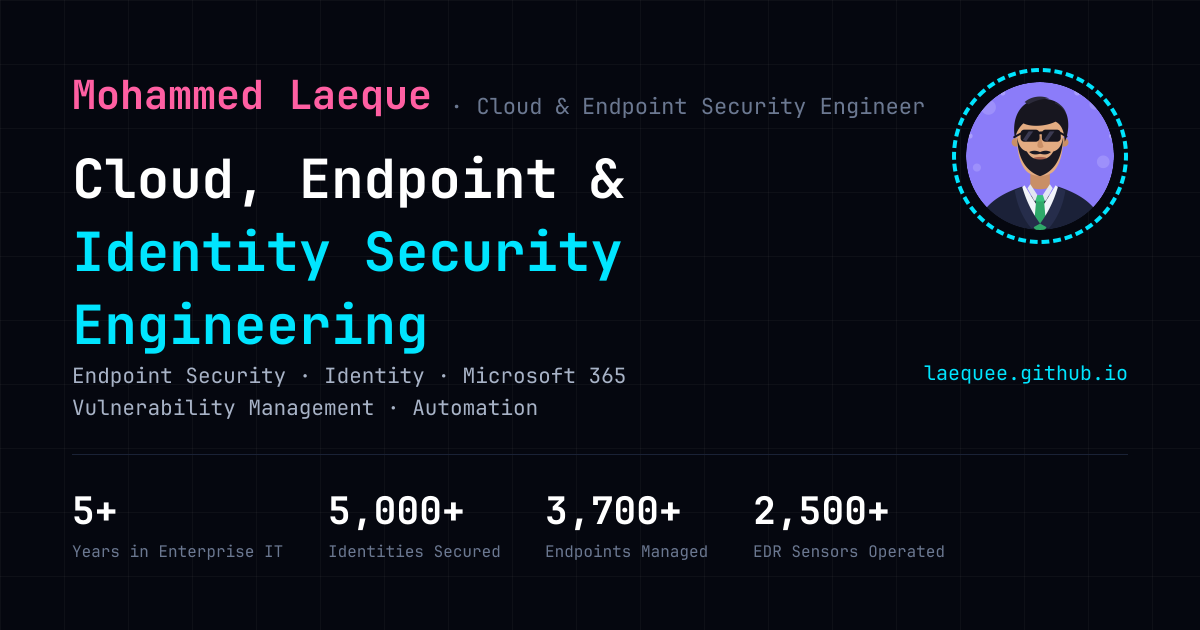
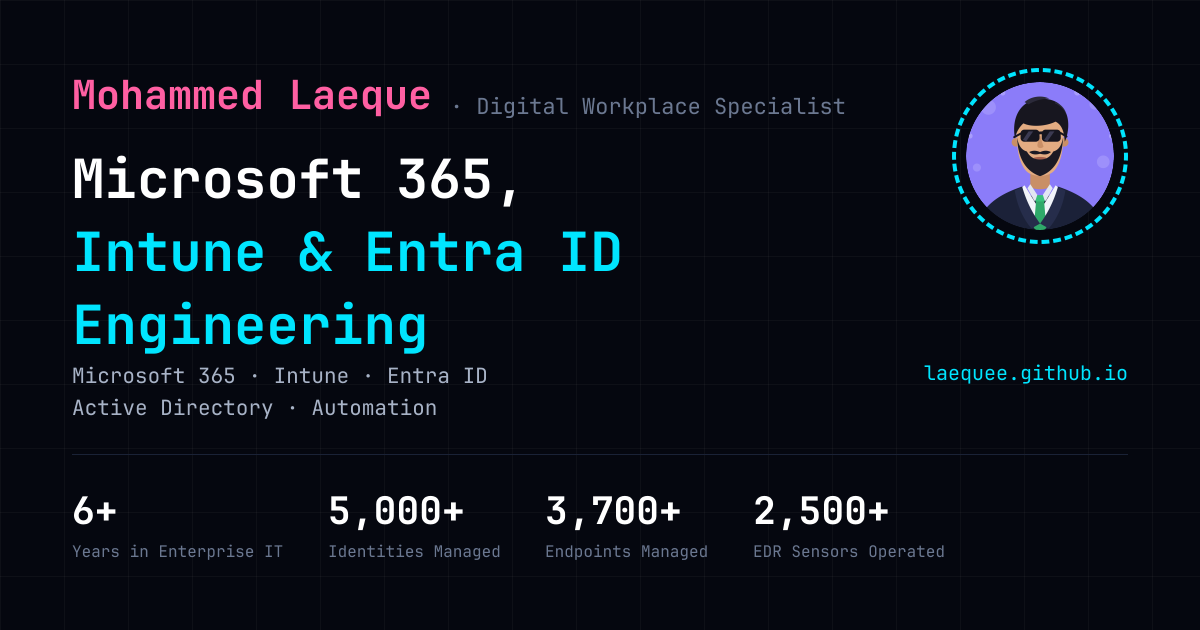
Present the portfolio as Microsoft 365 and digital workplace work

diff --git a/src/content/profile.ts b/src/content/profile.ts
@@ -63,30 +63,30 @@ export const profile = {
   name: "Mohammed Laeque",
   initials: "ML",
   /* Verbatim from the CV's title line, so the two documents introduce the same person. */
-  title: "Cloud & Endpoint Security Engineer",
-  headline: "Cloud, Endpoint & Identity Security Engineering",
+  title: "Digital Workplace Specialist",
+  headline: "Microsoft 365, Intune & Entra ID Engineering",
   /* Single line, for the share card and metadata where wrapping isn't available. */
   discipline:
-    "Endpoint Security · Identity · Microsoft 365 · Vulnerability Management · Automation",
+    "Microsoft 365 · Intune · Entra ID · Active Directory · Automation",
   /* Hand-broken for the hero, where two balanced lines read better than one long one. */
   disciplineLines: [
-    "Endpoint Security · Identity · Microsoft 365",
-    "Vulnerability Management · Automation",
+    "Microsoft 365 · Intune · Entra ID",
+    "Active Directory · Automation",
   ],
   location: "Abu Dhabi, UAE",
 
   intro:
-    "I secure and consolidate the identity, endpoint, and collaboration layers that large organisations run on — endpoint detection and response, Conditional Access and hybrid identity, CIS hardening, and the tenant-scale migrations that get an estate onto one governed platform.",
+    "I run and consolidate the identity, endpoint, and collaboration layers that large organisations depend on — Microsoft 365, Intune, Conditional Access and hybrid identity, and the tenant-scale migrations that get an estate onto one governed platform.",
 
-  summary: `${yearsExperience}+ years delivering enterprise-scale Microsoft 365, endpoint, and hybrid identity work. Accountable for endpoint detection and response, identity and access management, email and data security, vulnerability management, and security hardening across a multi-domain, multi-forest environment of 5,000+ identities and 3,700+ managed devices. The work is Zero Trust and least privilege in practice, measured against CIS, NIST, and ISO 27001 control expectations, and delivered in production hours rather than in maintenance windows.`,
+  summary: `${yearsExperience}+ years delivering enterprise-scale Microsoft 365, Intune endpoint management, and hybrid identity work. Accountable for Microsoft 365 administration, endpoint management, identity and access, and the supporting security tooling across a multi-domain, multi-forest environment of 5,000+ identities and 3,700+ managed devices, delivered in production hours rather than in maintenance windows.`,
 
   /*
    * No badge any more — this only drives the "Looking for" block and the lede
    * in the contact section. Set `open: false` and both disappear.
    */
   availability: {
-    open: false,
-    detail: "",
+    open: true,
+    detail: "Open to roles across the UAE",
   },
 
   contact: {
@@ -140,8 +140,8 @@ export const profile = {
  * comment above HeadlineLine.
  */
 export const headlineLines = [
-  { text: "Cloud, Endpoint &", accent: false },
-  { text: "Identity Security", accent: true },
+  { text: "Microsoft 365,", accent: false },
+  { text: "Intune & Entra ID", accent: true },
   { text: "Engineering", accent: true },
 ] as const;
 
@@ -150,12 +150,12 @@ export const headlineLines = [
  * can run on the numeral alone.
  *
  * Four figures, all from the CV banner. The CV carries two more — 4,000+
- * mailboxes secured and 90%+ CIS compliance — which sit on the case studies
+ * mailboxes managed and 90%+ CIS compliance — which sit on the case studies
  * that earned them rather than competing for space here.
  */
 export const headlineStats = [
   { value: yearsExperience, suffix: "+", label: "Years in Enterprise IT", note: "Since Oct 2020" },
-  { value: 5000, suffix: "+", label: "Identities Secured", note: "Entra ID · multi-forest AD" },
+  { value: 5000, suffix: "+", label: "Identities Managed", note: "Entra ID · multi-forest AD" },
   { value: 3700, suffix: "+", label: "Endpoints Managed", note: "Intune · Autopilot" },
   { value: 2500, suffix: "+", label: "EDR Sensors Operated", note: "CrowdStrike Falcon" },
 ] as const;

diff --git a/src/content/experience.ts b/src/content/experience.ts
@@ -28,7 +28,7 @@ export type Role = {
 
 export const experience: Role[] = [
   {
-    title: "Security, Identity & Endpoint Engineer",
+    title: "System Specialist / Digital Workplace Specialist",
     employer: "HCLTech",
     client: "Multinational food & beverage group",
     period: "Nov 2024 — Present",
@@ -37,9 +37,9 @@ export const experience: Role[] = [
     location: "Abu Dhabi, UAE",
     current: true,
     summary:
-      "Core security, identity and endpoint engineer for the group's Microsoft cloud platform — a single Entra ID tenant over a multi-domain, multi-forest Active Directory estate of 5,000+ identities, 4,000+ mailboxes, 3,700+ managed devices, 2,500+ endpoint security sensors and 2,000+ SharePoint sites.",
+      "Digital workplace, identity and endpoint specialist for the group's Microsoft cloud platform — a single Entra ID tenant over a multi-domain, multi-forest Active Directory estate of 5,000+ identities, 4,000+ mailboxes, 3,700+ managed devices, 2,500+ endpoint security sensors and 2,000+ SharePoint sites.",
     highlights: [
-      "Own endpoint detection and response across a 2,500+ sensor CrowdStrike Falcon estate — prevention policy design, host group scoping, IOA/IOC tuning, Real Time Response and Identity Protection.",
+      "Administer a 2,500+ sensor CrowdStrike Falcon estate — prevention policy design, host group scoping, IOA/IOC tuning, Real Time Response and Identity Protection.",
       "Led an enterprise-wide CrowdStrike tenant-to-tenant migration across a multi-domain environment, removing and reinstalling 2,500+ sensors against a fixed licence expiry with no host left on the retired tenant and no service impact.",
       "Deployed Windows Hello for Business passwordless sign-in to 2,800+ hybrid joined devices — 97% of the managed Windows estate — over cloud Kerberos trust, with no PKI, no certificates and no additional spend.",
       "Architected and manage Microsoft Intune for 3,700+ devices: Autopilot provisioning, MDM auto-enrolment, compliance and configuration profiles, BitLocker, Windows LAPS and Win32 packaging.",

diff --git a/src/content/skills.ts b/src/content/skills.ts
@@ -15,7 +15,7 @@ export type SkillGroup = {
 export const skillGroups: SkillGroup[] = [
   {
     code: "EDR",
-    title: "Endpoint Security",
+    title: "Endpoint Protection",
     items: [
       "CrowdStrike Falcon",
       "Prevention policy & host groups",
@@ -29,14 +29,12 @@ export const skillGroups: SkillGroup[] = [
   },
   {
     code: "SOC",
-    title: "Security Operations",
+    title: "Security Administration",
     items: [
-      "Threat detection & response",
       "Alert triage & containment",
       "Threat hunting",
       "Phishing & BEC investigation",
       "Password spray analysis",
-      "Malware containment & host isolation",
       "Post-incident RCA",
       "Log & audit analysis",
     ],
@@ -74,9 +72,6 @@ export const skillGroups: SkillGroup[] = [
     title: "Frameworks & Governance",
     items: [
       "CIS Benchmarks & Controls",
-      "NIST Cybersecurity Framework",
-      "ISO 27001 control alignment",
-      "MITRE ATT&CK",
       "Zero Trust architecture",
       "Least privilege & defence in depth",
       "Risk & remediation registers",

diff --git a/src/content/projects.ts b/src/content/projects.ts
@@ -638,7 +638,7 @@ export const projects: Project[] = [
     client: "Enterprise client",
     employer: "HCLTech",
     period: "2025",
-    role: "Security engineer — email and identity",
+    role: "Email and identity administration",
     featured: true,
     summary:
       "Closed legacy SMTP authentication across 4,000+ mailboxes, restored mailbox auditing to the recommended baseline and doubled audit retention — in production hours, with the exception list reconciled against real send activity rather than against who had asked to be exempted.",
@@ -744,7 +744,7 @@ export const projects: Project[] = [
     client: "Enterprise client",
     employer: "HCLTech",
     period: "2025",
-    role: "Security engineer — assessment and remediation",
+    role: "Assessment and remediation",
     featured: true,
     summary:
       "Turned an 80+ finding SaaS security posture assessment into a prioritised, change-controlled remediation register — and escalated the privileged access findings the vendor had under-rated.",

diff --git a/src/components/home/experience-timeline.tsx b/src/components/home/experience-timeline.tsx
@@ -9,7 +9,7 @@ export function ExperienceTimeline() {
       index="02"
       id="experience"
       title="Experience"
-      lede={`${yearsExperience}+ years across enterprise IT, from workstation builds in Kerala to group-wide security, identity and endpoint engineering in Abu Dhabi.`}
+      lede={`${yearsExperience}+ years across enterprise IT, from workstation builds in Kerala to group-wide Microsoft 365, identity and endpoint work in Abu Dhabi.`}
       raised
     >
       <ol className="relative">

diff --git a/src/app/layout.tsx b/src/app/layout.tsx
@@ -48,8 +48,8 @@ export const metadata: Metadata = {
   description: profile.intro,
   keywords: [
     "Mohammed Laeque",
-    "Cloud Security Engineer",
-    "Endpoint Security Engineer",
+    "Microsoft 365 Engineer",
+    "Digital Workplace Specialist",
     "CrowdStrike Falcon",
     "Microsoft 365",
     "Intune",
